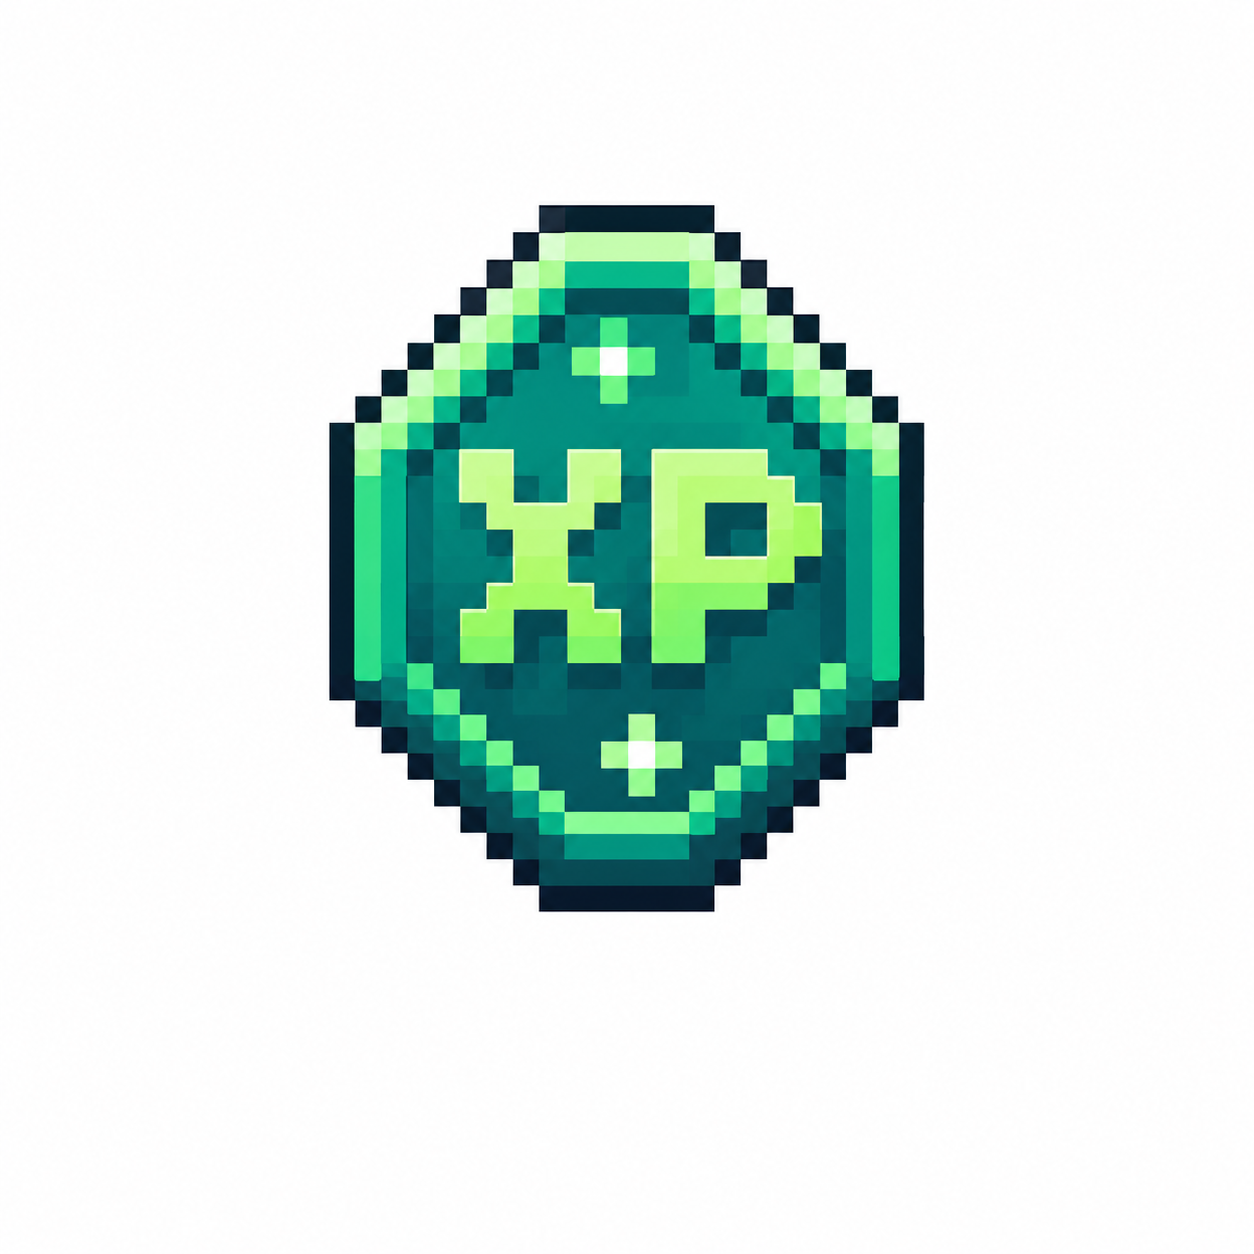
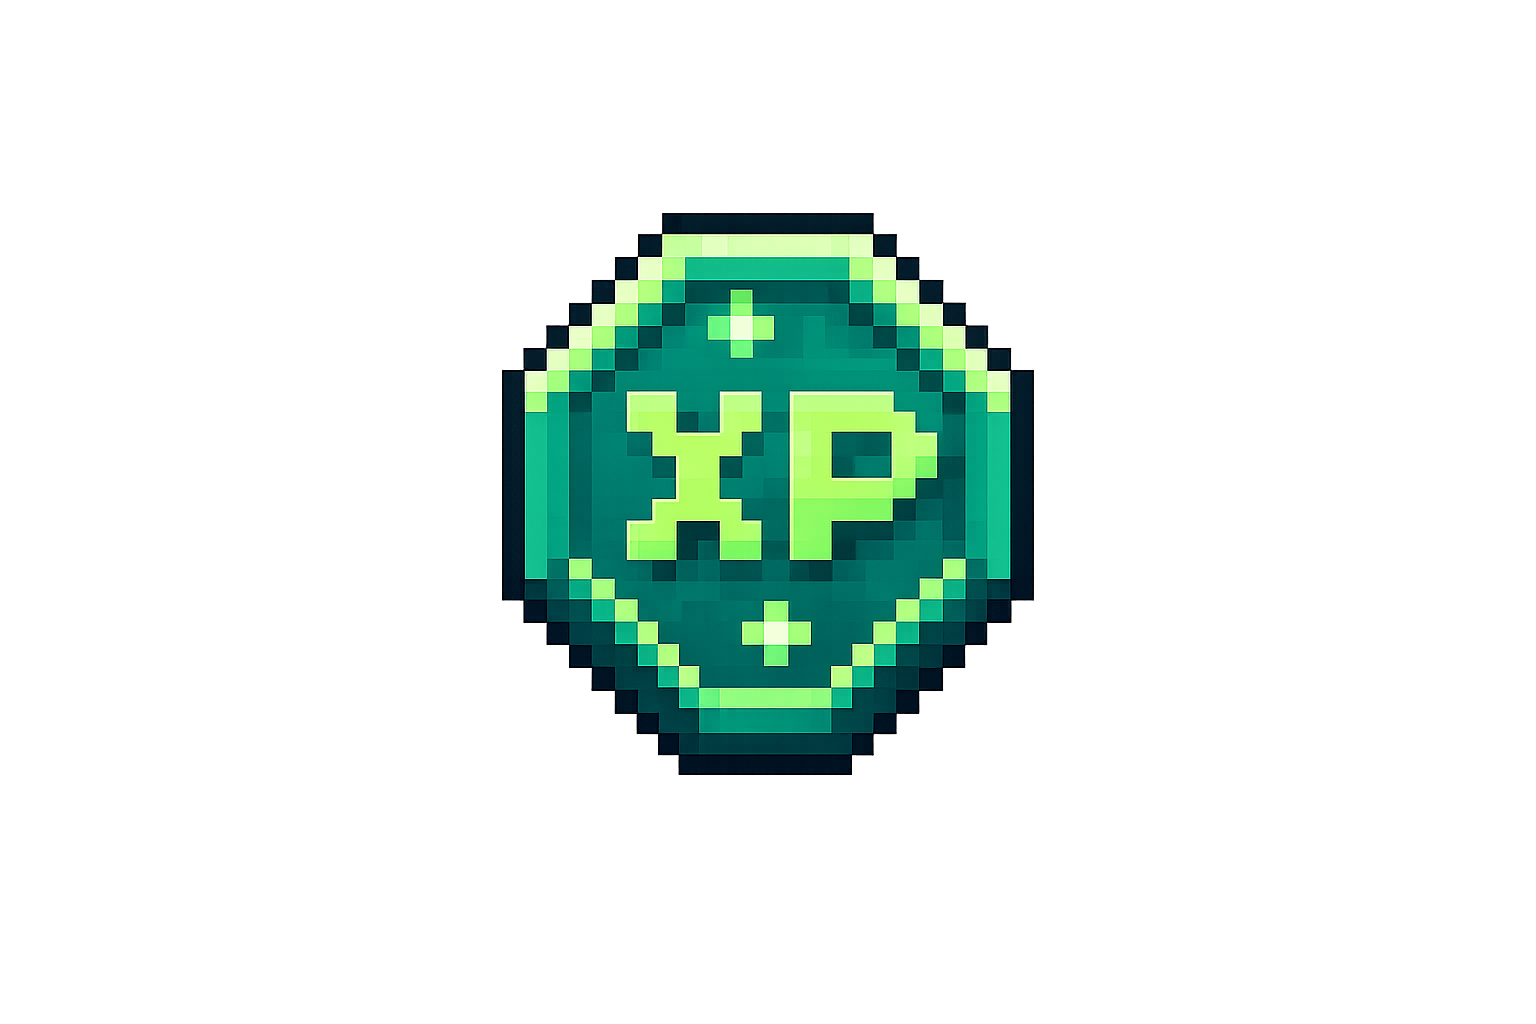
atualizacao da imagem XP

Changed region(s): [[0.2488, 0.1562, 0.7464, 0.7812]]

diff --git a/src/scenes/PreGameXPScene.js b/src/scenes/PreGameXPScene.js
@@ -226,7 +226,7 @@ export default class PreGameXPScene extends Phaser.Scene {
 
     const bug = this.bombs.create(x, 16, "bomb");
 
-    bug.setScale(0.05);
+    bug.setScale(0.1);
     bug.setBounce(1);
     bug.setCollideWorldBounds(true);
     bug.setVelocity(Phaser.Math.Between(-180, 180), 20);